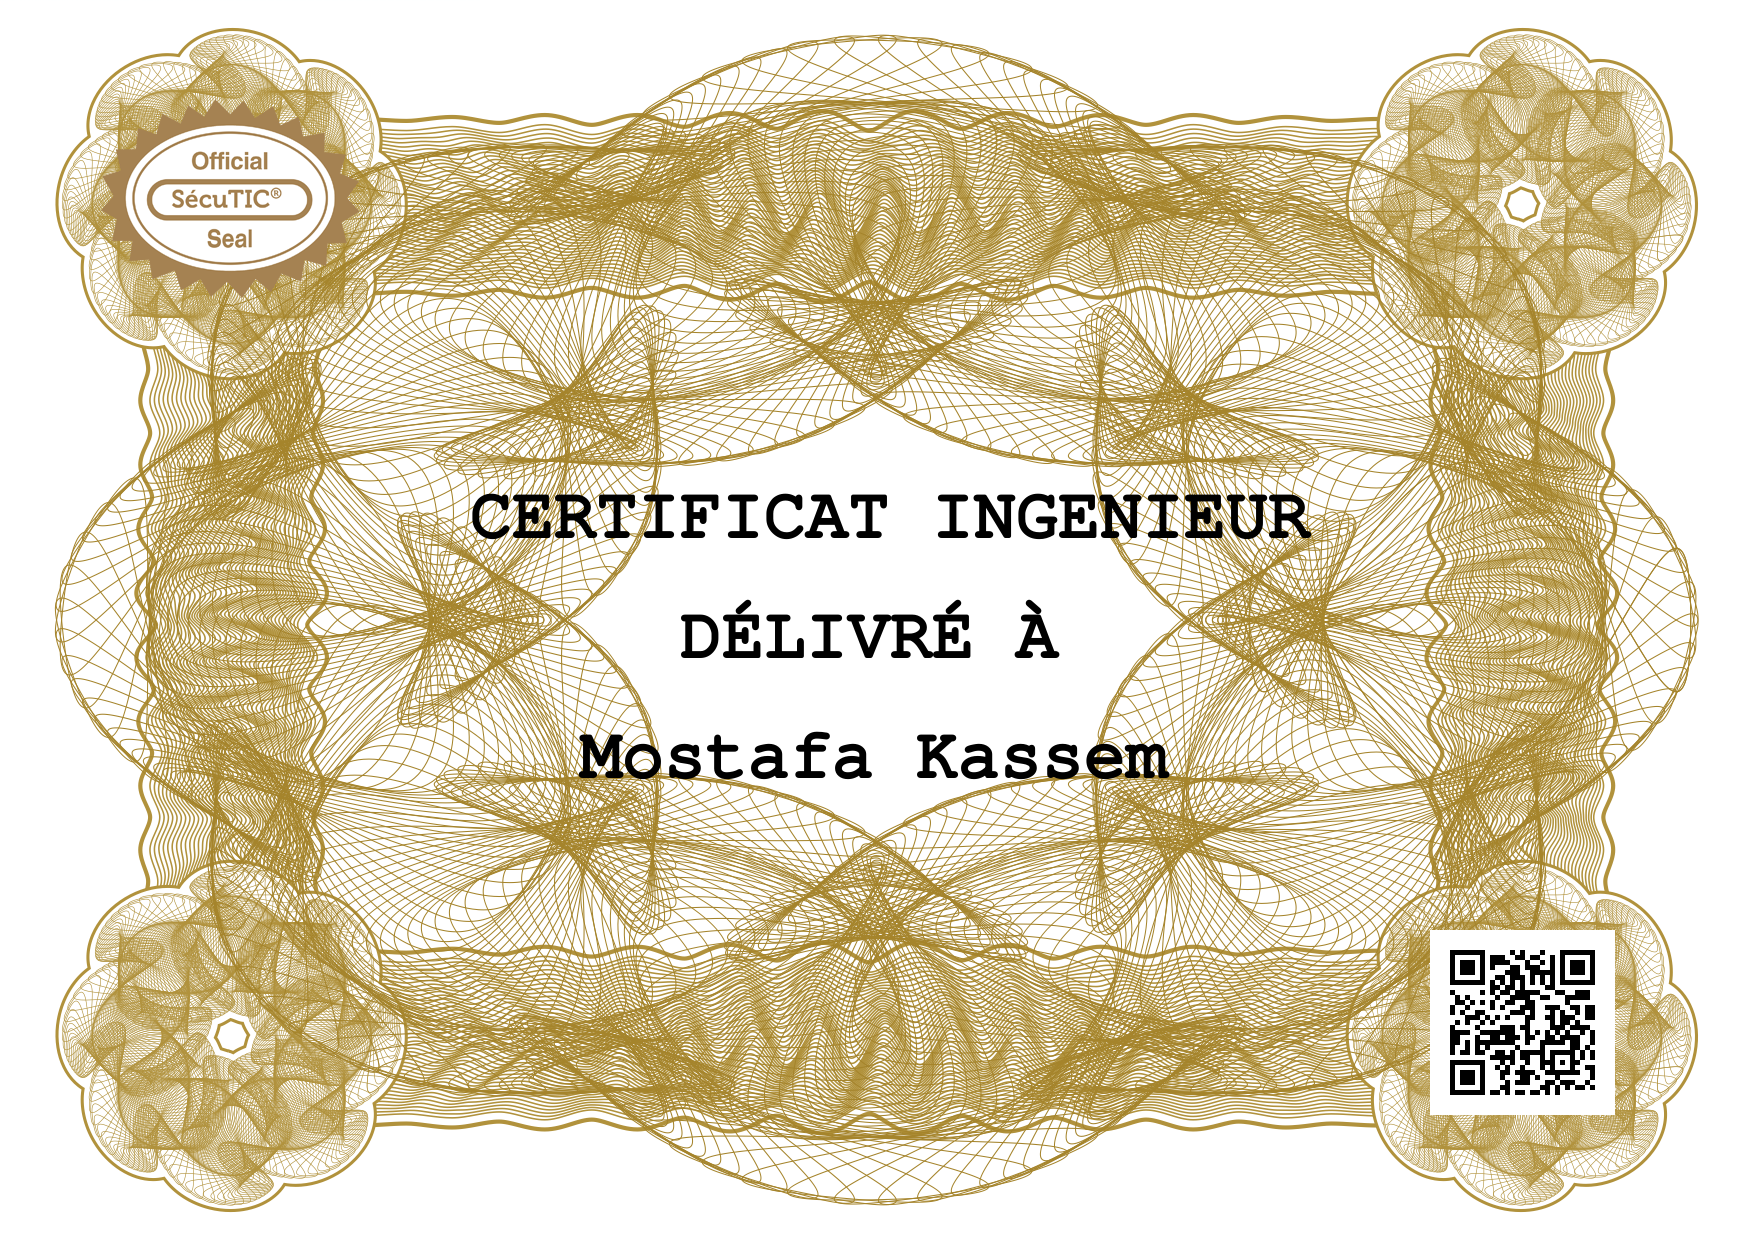
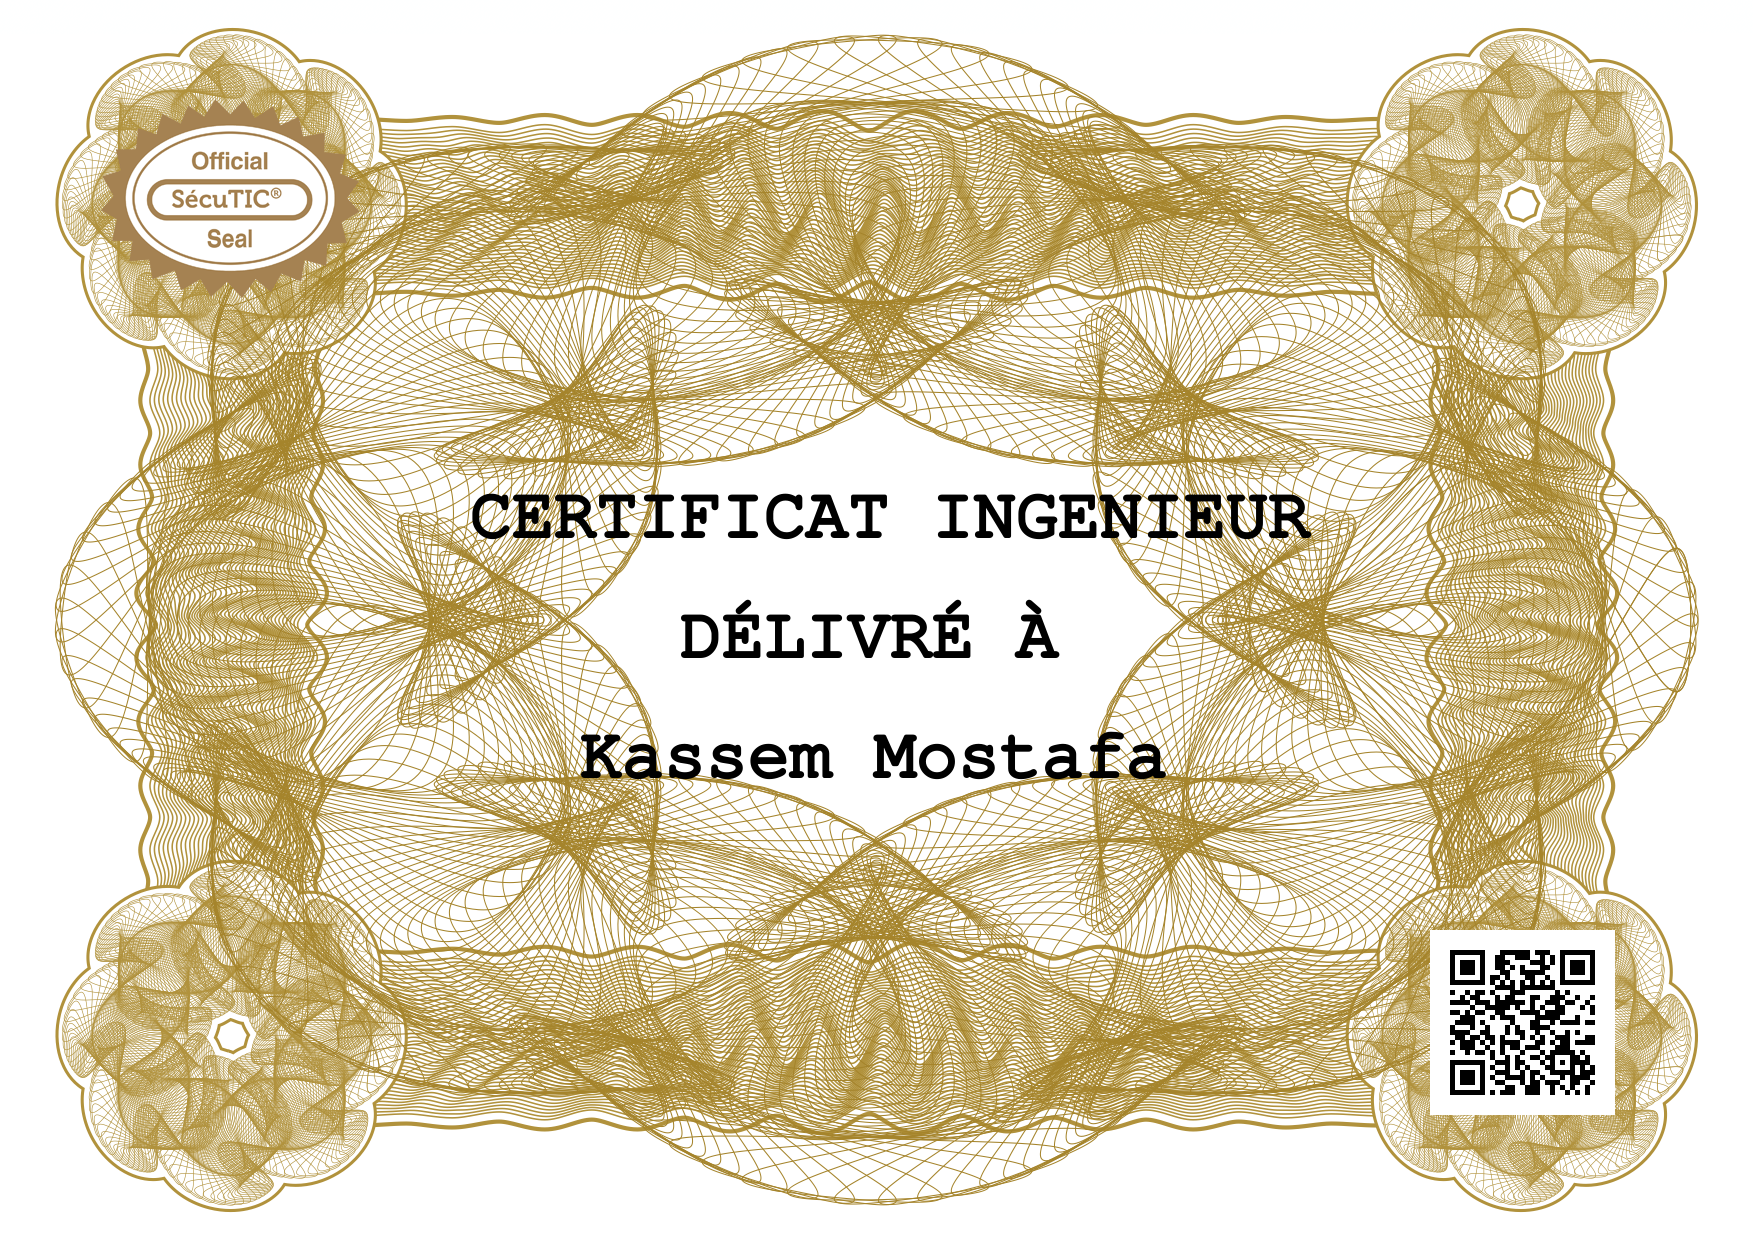
CORRECT BUGS

Changed region(s): [[0.4005, 0.5823, 0.6777, 0.6435], [0.8317, 0.7661, 0.9241, 0.8887], [0.3388, 0.5823, 0.3697, 0.6435]]

diff --git a/main.py b/main.py
@@ -7,183 +7,201 @@ import segno
 import time
 import cv2
 import os
-from pyasn1.codec.der import encoder
 import base64
 
-#pip install segno
-#pip install qrcode
-#pip install cv2
-#pip install opencv-python
+# pip install segno
+# pip install qrcode
+# pip install cv2
+# pip install opencv-python
+
 
 def vers_8bit(c):
-	chaine_binaire = bin(ord(c))[2:]
-	return "0"*(8-len(chaine_binaire))+chaine_binaire
+    chaine_binaire = bin(ord(c))[2:]
+    return "0"*(8-len(chaine_binaire))+chaine_binaire
+
 
 def modifier_pixel(pixel, bit):
-	# on modifie que la composante rouge
-	r_val = pixel[0]
-	rep_binaire = bin(r_val)[2:]
-	rep_bin_mod = rep_binaire[:-1] + bit
-	r_val = int(rep_bin_mod, 2)
-	return tuple([r_val] + list(pixel[1:]))
+    # on modifie que la composante rouge
+    r_val = pixel[0]
+    rep_binaire = bin(r_val)[2:]
+    rep_bin_mod = rep_binaire[:-1] + bit
+    r_val = int(rep_bin_mod, 2)
+    return tuple([r_val] + list(pixel[1:]))
+
 
 def recuperer_bit_pfaible(pixel):
-	r_val = pixel[0]
-	return bin(r_val)[-1]
+    r_val = pixel[0]
+    return bin(r_val)[-1]
 
-def cacher(image,message):
-	dimX,dimY = image.size
-	im = image.load()
-	message_binaire = ''.join([vers_8bit(c) for c in message])
-	posx_pixel = 0
-	posy_pixel = 0
-	for bit in message_binaire:
-		im[posx_pixel,posy_pixel] = modifier_pixel(im[posx_pixel,posy_pixel],bit)
-		posx_pixel += 1
-		if (posx_pixel == dimX):
-			posx_pixel = 0
-			posy_pixel += 1
-		assert(posy_pixel < dimY)
 
-def recuperer(image,taille):
-	message = ""
-	dimX,dimY = image.size
-	im = image.load()
-	posx_pixel = 0
-	posy_pixel = 0
-	for rang_car in range(0,taille):
-		rep_binaire = ""
-		for rang_bit in range(0,8):
-			rep_binaire += recuperer_bit_pfaible(im[posx_pixel,posy_pixel])
-			posx_pixel +=1
-			if (posx_pixel == dimX):
-				posx_pixel = 0
-				posy_pixel += 1
-		message += chr(int(rep_binaire, 2))
-	return message
+def cacher(image, message):
+    dimX, dimY = image.size
+    im = image.load()
+    message_binaire = ''.join([vers_8bit(c) for c in message])
+    posx_pixel = 0
+    posy_pixel = 0
+    for bit in message_binaire:
+        im[posx_pixel, posy_pixel] = modifier_pixel(
+            im[posx_pixel, posy_pixel], bit)
+        posx_pixel += 1
+        if (posx_pixel == dimX):
+            posx_pixel = 0
+            posy_pixel += 1
+        assert (posy_pixel < dimY)
+
+
+def recuperer(image, taille):
+    message = ""
+    dimX, dimY = image.size
+    im = image.load()
+    posx_pixel = 0
+    posy_pixel = 0
+    for rang_car in range(0, taille):
+        rep_binaire = ""
+        for rang_bit in range(0, 8):
+            rep_binaire += recuperer_bit_pfaible(im[posx_pixel, posy_pixel])
+            posx_pixel += 1
+            if (posx_pixel == dimX):
+                posx_pixel = 0
+                posy_pixel += 1
+        message += chr(int(rep_binaire, 2))
+    return message
+
 
 def decodeMessage(message_retrouve):
     separator = ' ||'
-    part1 = message_retrouve.split(separator, 1)[0] 
+    part1 = message_retrouve.split(separator, 1)[0]
 
     listOfWords = message_retrouve.split(' || ', 1)
-    if len(listOfWords) > 0: 
+    if len(listOfWords) > 0:
         message_retrouve = listOfWords[1]
 
     separator = ' ||'
-    part2 = message_retrouve.split(separator, 1)[0] 
+    part2 = message_retrouve.split(separator, 1)[0]
 
     listOfWords = message_retrouve.split('|| ', 1)
-    if len(listOfWords) > 0: 
+    if len(listOfWords) > 0:
         part3 = listOfWords[1]
-	
-    return [part1 , part2, part3]
-    
+
+
+    return [part1, part2, part3]
 
 
 def getQRcode():
-	img = cv2.imread("diplome.png") #ToDo correct error libpng warning: iCCP: known incorrect sRGB profile
-	crop_img = img[940:1105, 1430:1600]
-	cv2.imwrite("qrcode2.png", crop_img)
-	img=cv2.imread("qrcode2.png")
-	det=cv2.QRCodeDetector()
-	val, pts, st_code=det.detectAndDecode(img)
-	return val
+    # ToDo correct error libpng warning: iCCP: known incorrect sRGB profile
+    img = cv2.imread("diplome.png")
+    crop_img = img[940:1105, 1430:1600]
+    cv2.imwrite("qrcode2.png", crop_img)
+    img = cv2.imread("qrcode2.png")
+    det = cv2.QRCodeDetector()
+    val, pts, st_code = det.detectAndDecode(img)
+    return val
 
-def extrairePreuve(): #à afficher lors de la verification du qrcode
-	return 0
+
+def extrairePreuve():  # à afficher lors de la verification du qrcode
+    return 0
+
 
 def creerQRCode(prenom, nom, diplome):
-	 #TODO qrcode signature =>encoder en base64
-	signature = "qfoqinoi"
-	
-	qr = segno.make(prenom + ' ' + nom + ' || ' + diplome + ' || ' + signature, encoding="utf-8")
+    # TODO qrcode signature =>encoder en base64
+    signature = "qfoqinoi"
 
-	qr.save('qrcode.png',light=None, scale= 5)
-	return 0
+    qr = segno.make(prenom + ' ' + nom + ' || ' + diplome +
+                    ' || ' + signature, encoding="utf-8")
+
+    qr.save('qrcode.png', light=None, scale=5)
+    return 0
+
 
 def creerTimestamp():
-	#TODO create time stamp
-	#DONE
-	os.system('openssl ts -query -data diplome.png -no_nonce -sha512 -cert -out diplome.tsq')
-	os.system('curl -H "Content-Type: application/timestamp-query" --data-binary "@diplome.tsq" https://freetsa.org/tsr > diplome.tsr')
-	data = open("diplome.tsr", "rb").read()
-	timestamp = base64.b64encode(data).decode()
-	return timestamp
+    # TODO create time stamp
+    # DONE
+    os.system(
+        'openssl ts -query -data diplome.png -no_nonce -sha512 -cert -out diplome.tsq')
+    os.system('curl -H "Content-Type: application/timestamp-query" --data-binary "@diplome.tsq" https://freetsa.org/tsr > diplome.tsr')
+    data = open("diplome.tsr", "rb").read()
+    timestamp = base64.b64encode(data).decode()
+    return timestamp
 
-def steganoAdd(img,prenom,nom,diplome):
 
-	prenom = "Mostafa"
-	nom = "Kassem"
-	diplome = "ingenieur"
-	
-	#TODO append timestamp in base64 to steg and measure size
-	timestamp = creerTimestamp()
-	steg = nom + " " +  prenom + " || " + diplome + " " 
-	n = len(steg)
-	if (n < 60):
-		y = 60 - n
-		while (y > 0):
-			steg += "0"
-			y -= 1
-	result = steg + ' || ' + timestamp
-	print(result)
-	print(len(result))
-	cacher(img, steg)
-	return img 
+def steganoAdd(img, prenom, nom, diplome):
 
-def creerAttestation(): #lancé par l'admin à la création d'une attestation
-	query = "Object { prenom: "", nom: "", diplome: "" }"
+    prenom = "Mostafa"
+    nom = "Kassem"
+    diplome = "ingenieur"
 
-	#Nomdefichier = prenom_nom_diplome.png
-	prenom = "Mostafa"
-	nom = "Kassem"
-	diplome = "ingenieur"
-	#TODO accès signature (en attente de fichier de config)
-	img = Image.open("Blank_Certif.png")
-	draw = ImageDraw.Draw(img)
-	font = ImageFont.truetype("/usr/share/fonts/truetype/freefont/FreeMono.ttf", 70)
-	draw.text((470, 480),"CERTIFICAT INGENIEUR ",(0,0,0),font=font,align='left',stroke_width=2,stroke_fill="black") #draws on top line	
-	draw.text((680, 600),"DÉLIVRÉ À",(0,0,0),font=font,align='left',stroke_width=2,stroke_fill="black")
-	draw.text((580, 720),"Mostafa Kassem",(0,0,0),font=font,align='left',stroke_width=2,stroke_fill="black")
-	creerQRCode(prenom,nom,diplome)	
-	qr = Image.open("qrcode.png")
-	img.paste(qr, (1430,930))
-	img.save("diplome.png")
-	img = steganoAdd(img,prenom,nom,diplome)
-	img.save("diplome.png")
-	os.remove("qrcode.png")
-	return 1
+    # TODO append timestamp in base64 to steg and measure size
+    timestamp = creerTimestamp()
+    steg = nom + " " + prenom + " || " + diplome + " "
+    n = len(steg)
+    if (n < 60):
+        y = 60 - n
+        while (y > 0):
+            steg += "0"
+            y -= 1
+    result = steg + ' || ' + timestamp
+    print(len(result))
+    cacher(img, result)
+    return img
+
+
+def creerAttestation():  # lancé par l'admin à la création d'une attestation
+    query = "Object { prenom: "", nom: "", diplome: "" }"
+
+    # Nomdefichier = prenom_nom_diplome.png
+    prenom = "Kassem"
+    nom = "Mostafa"
+    diplome = "ingenieur"
+    # TODO accès signature (en attente de fichier de config)
+    img = Image.open("Blank_Certif.png")
+    draw = ImageDraw.Draw(img)
+    font = ImageFont.truetype(
+        "/usr/share/fonts/truetype/freefont/FreeMono.ttf", 70)
+    draw.text((470, 480), "CERTIFICAT INGENIEUR ", (0, 0, 0), font=font,
+              align='left', stroke_width=2, stroke_fill="black")  # draws on top line
+    draw.text((680, 600), "DÉLIVRÉ À", (0, 0, 0), font=font,
+              align='left', stroke_width=2, stroke_fill="black")
+    draw.text((580, 720), "Kassem Mostafa", (0, 0, 0), font=font,
+              align='left', stroke_width=2, stroke_fill="black")
+    creerQRCode(prenom, nom, diplome)
+    qr = Image.open("qrcode.png")
+    img.paste(qr, (1430, 930))
+    img.save("diplome.png")
+    img = steganoAdd(img, prenom, nom, diplome)
+    img.save("diplome.png")
+    os.remove("qrcode.png")
+    return 1
 
 
 # programme de demonstration
 
 
 def verifAttestation():
-	message_retrouve = recuperer(Image.open("certif.png"), 64)
-	listStega = decodeMessage(message_retrouve)
-	print("donné de l'image: " + listStega[0] + " || " + listStega[1] + " || " + listStega[2] )
-	val = getQRcode()
-	listQrcode = decodeMessage(val)
-	print("donné du Qrcode: " + listQrcode[0] + " || " + listQrcode[1] + " || " + listQrcode[2] )
-	
+    message_retrouve = recuperer(Image.open("diplome.png"), 7392)
+    listStega = decodeMessage(message_retrouve)
+    listStega[1] = listStega[1].replace('0', '')
+    print("donné de l'image: " +
+          listStega[0] + " || " + listStega[1] + " || " + "listStega[2] ")
+    val = getQRcode()
+    listQrcode = decodeMessage(val)
+    print("donné du Qrcode: " +
+          listQrcode[0] + " || " + listQrcode[1] + " || " + listQrcode[2])
 
-	#Je récupére le code:
-	#tsr = 
-	#with open("file.tsr", "wb") as f:
-	#f.write(encoder.encode(tsr))
-	#print("vérification fini")
-	#return 1
+    # Je récupére le code:
+    # tsr =
+    # with open("file.tsr", "wb") as f:
+    # f.write(encoder.encode(tsr))
+    #print("vérification fini")
+    # return 1
 
 
 creerAttestation()
 print("attestation cree")
-## Extraire le code d'une image:
+# Extraire le code d'une image:
 print(verifAttestation())
 
 
-#https://gist.github.com/void-elf/0ed0e136d6d342974257c93f571e28b5
+# https://gist.github.com/void-elf/0ed0e136d6d342974257c93f571e28b5
 
 
-
-#openssl ca -in PKI/tempservercert.pem -cert PKI/certs/webca.pem -keyfile PKI/private/webca.key -notext -out PKI/certs/serveur1.pem-notext -config PKI/ca-server-cert.cnf
+# openssl ca -in PKI/tempservercert.pem -cert PKI/certs/webca.pem -keyfile PKI/private/webca.key -notext -out PKI/certs/serveur1.pem-notext -config PKI/ca-server-cert.cnf
